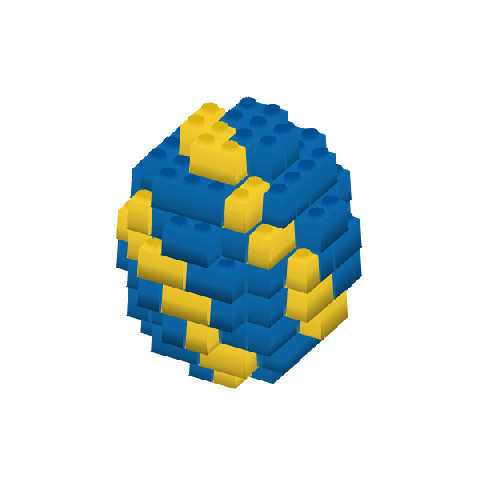
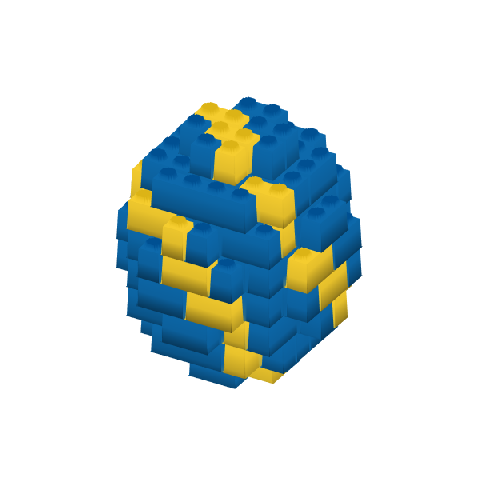
Updated ReadMe

Changed region(s): [[0.2188, 0.3125, 0.5938, 0.8125], [0.375, 0.2188, 0.625, 0.5625], [0.5938, 0.5, 0.75, 0.7188]]

diff --git a/README.md b/README.md
@@ -218,7 +218,7 @@ radius <- 4
 sphere_coords <- expand.grid(
   x = 1:round((radius*2.5)),
   y = 1:round((radius*2.5)),
-  z = 1:round((radius/(6/5)*3)) #A brick is 6/5 taller than it is wide/deep
+  z = 1:round((radius/(6/5)*2.5)) #A brick is 6/5 taller than it is wide/deep
 ) %>%
   mutate(
     #Distance of each coordinate from center
@@ -239,6 +239,21 @@ rayshader::render_snapshot()
 
 ![](README_files/figure-gfm/bricks_6-1.png)<!-- -->
 
+### Examples
+
+More examples using `bricks_from_table()` and `bricks_from_coords()` can
+be found at the links below.
+
+  - [**Get
+    started**](https://gist.github.com/ryantimpe/a784beaa4f798f57010369329d46ce71)
+    with the framework for building a brick from scratch.
+  - [**Build an
+    owl**](https://gist.github.com/ryantimpe/ceab2ed6b8a4737077280fc9b0d1c886)
+    with `bricks_from_table()` by manually placing each brick.
+  - Generate a punny [**random forest
+    model**](https://gist.github.com/ryantimpe/a7363a5e99dceabada150a43925beec7)
+    using `bricks_from_coords()` and {purrr}.
+
 ## Mosaics
 
 The mosaic functions renders an imported JPG or PNG file using LEGO
@@ -256,9 +271,10 @@ mosaic1 <- jpeg::readJPEG("Images/goldengirls.jpg") %>%
 mosaic1 %>% display_set()
 ```
 
-![](README_files/figure-gfm/m1_set-1.png)<!-- --> If you had previously
-created mosaics before the package release, the script below will still
-work.
+![](README_files/figure-gfm/m1_set-1.png)<!-- -->
+
+If you had previously created mosaics before the package release, the
+script below will still work.
 
 ``` r
 mosaic1 <- jpeg::readJPEG("Images/goldengirls.jpg") %>% 
